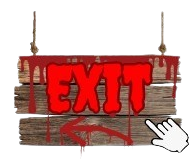
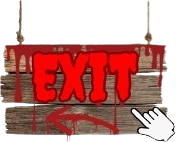
update

diff --git a/main.py b/main.py
@@ -18,7 +18,7 @@ background_img = images.Images(0, 0, background, 0.8)
 word_img = images.Images(200, 40, word, 1.3)
 
 #images
-exit_button = button.Button(620, 150, exit, 1.5)
+exit_button = button.Button(630, 175, exit, 1.5)
 
 #main
 def main():
